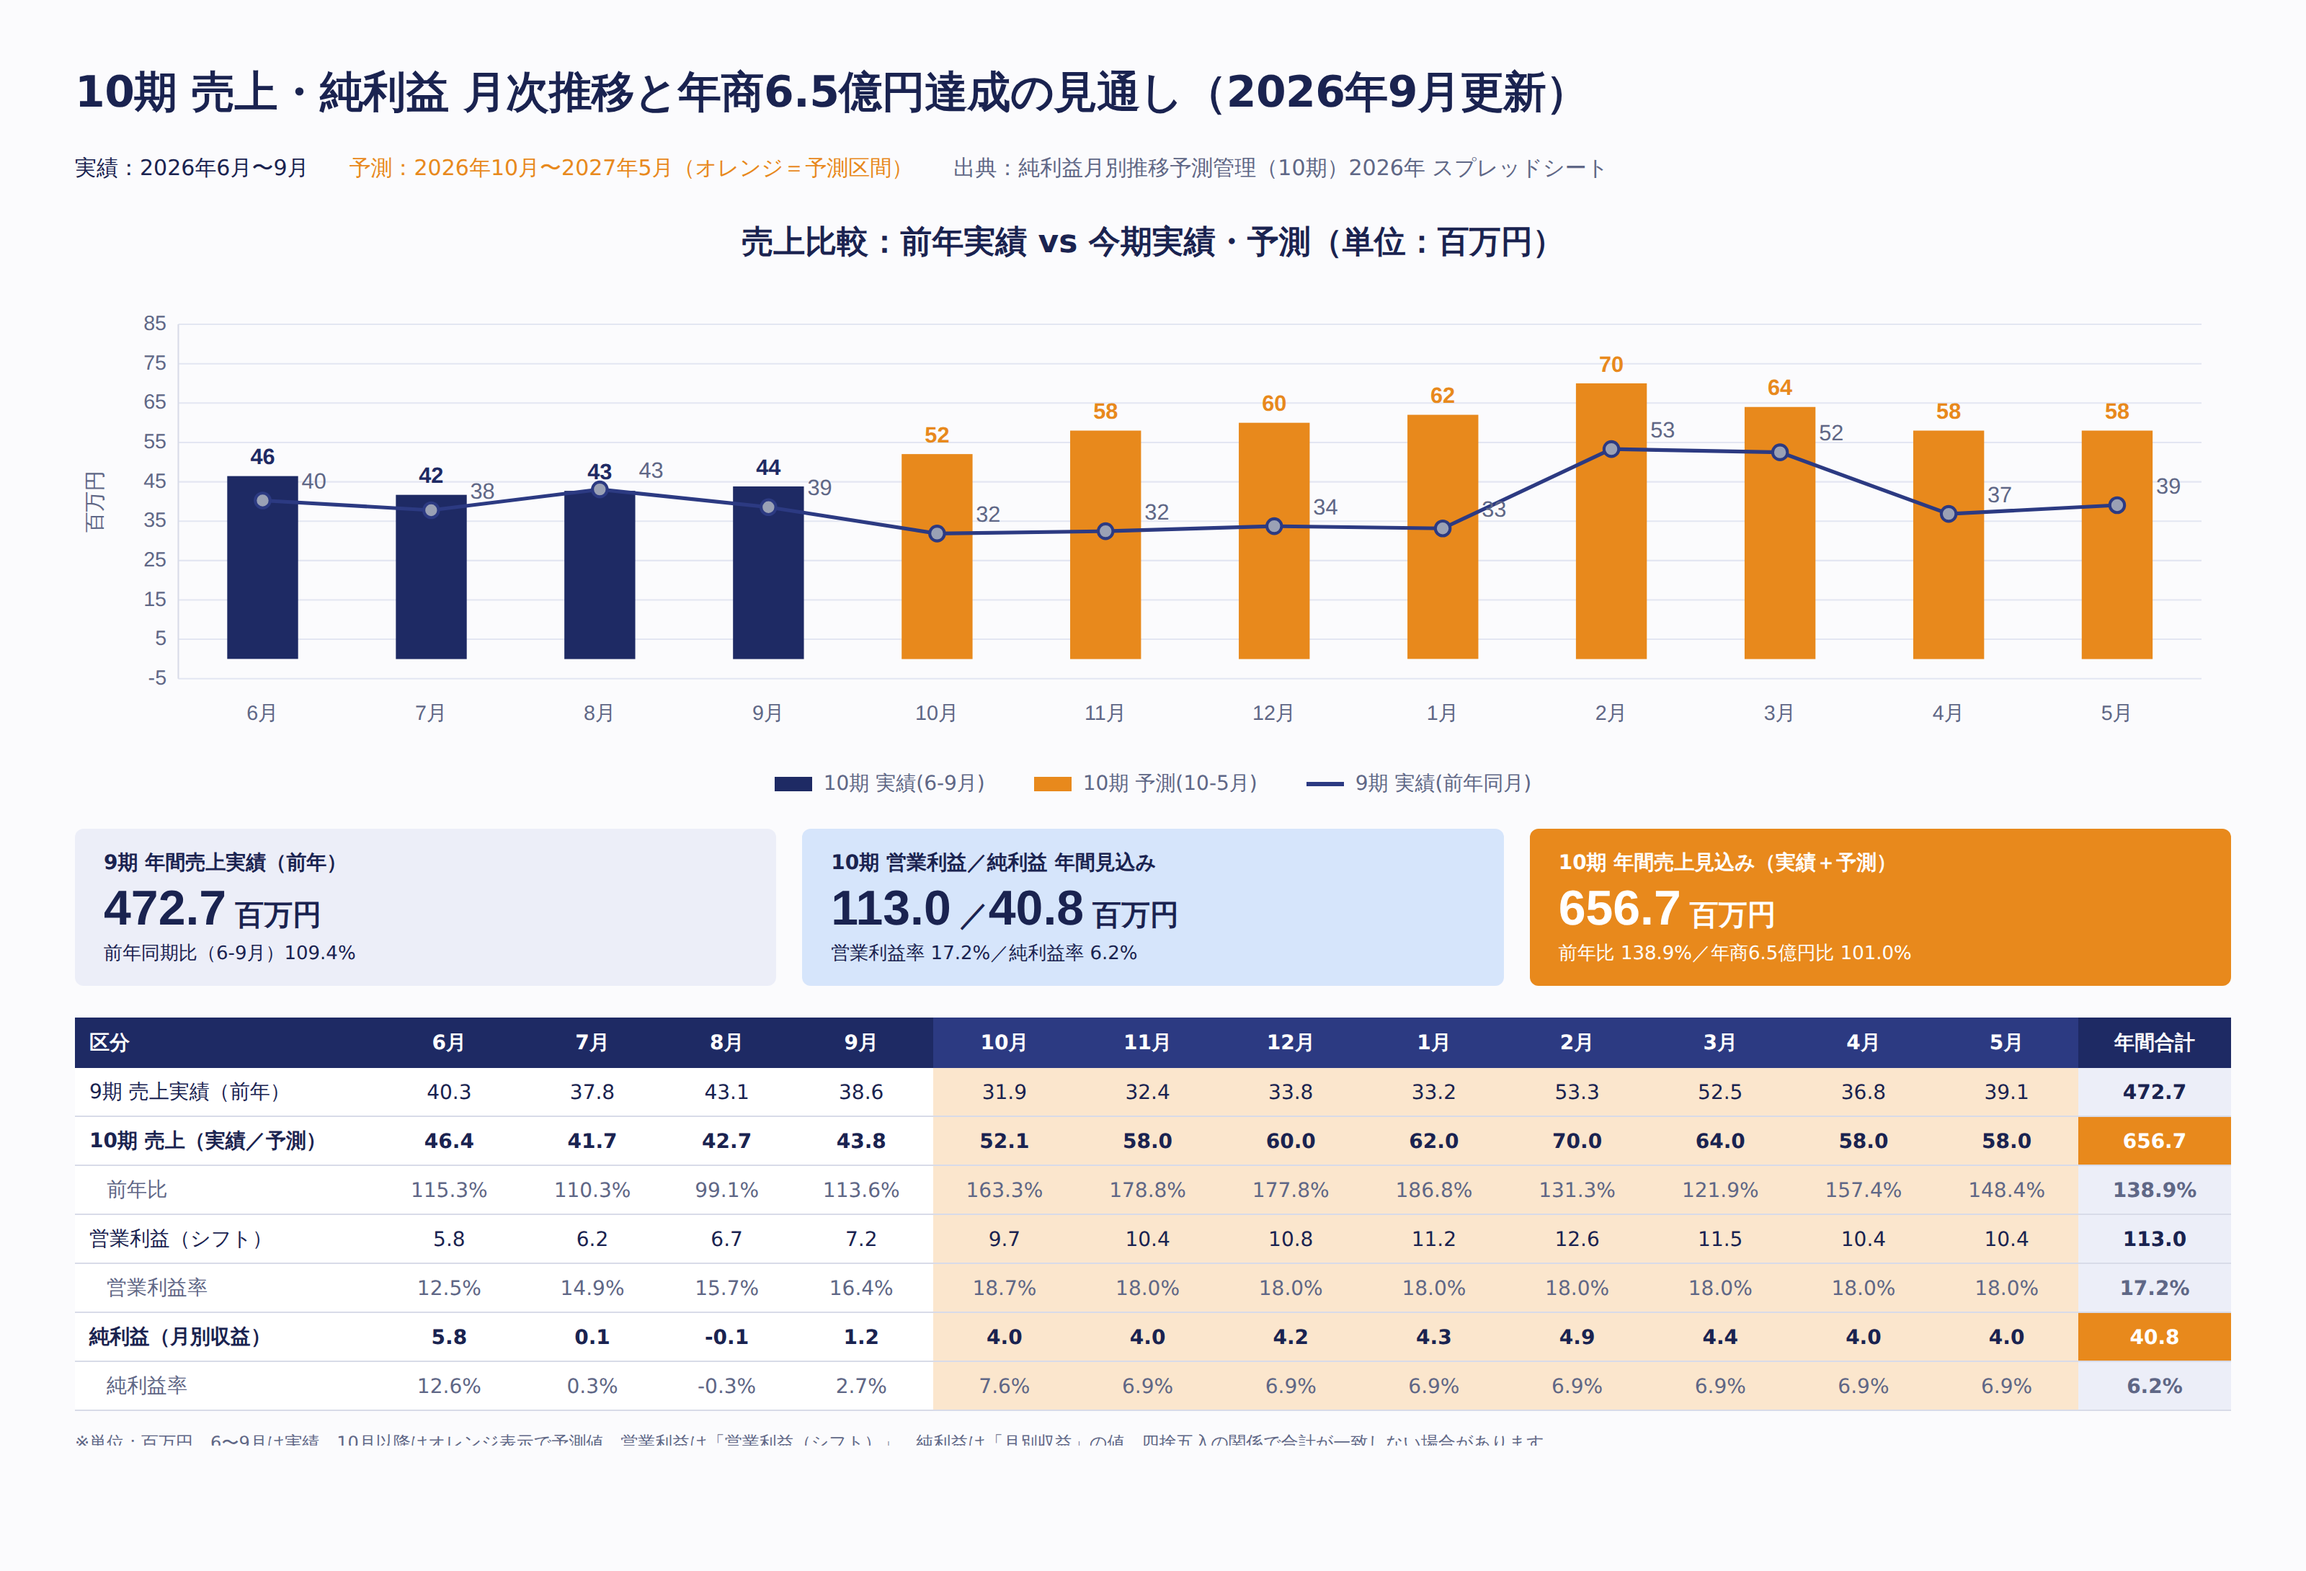
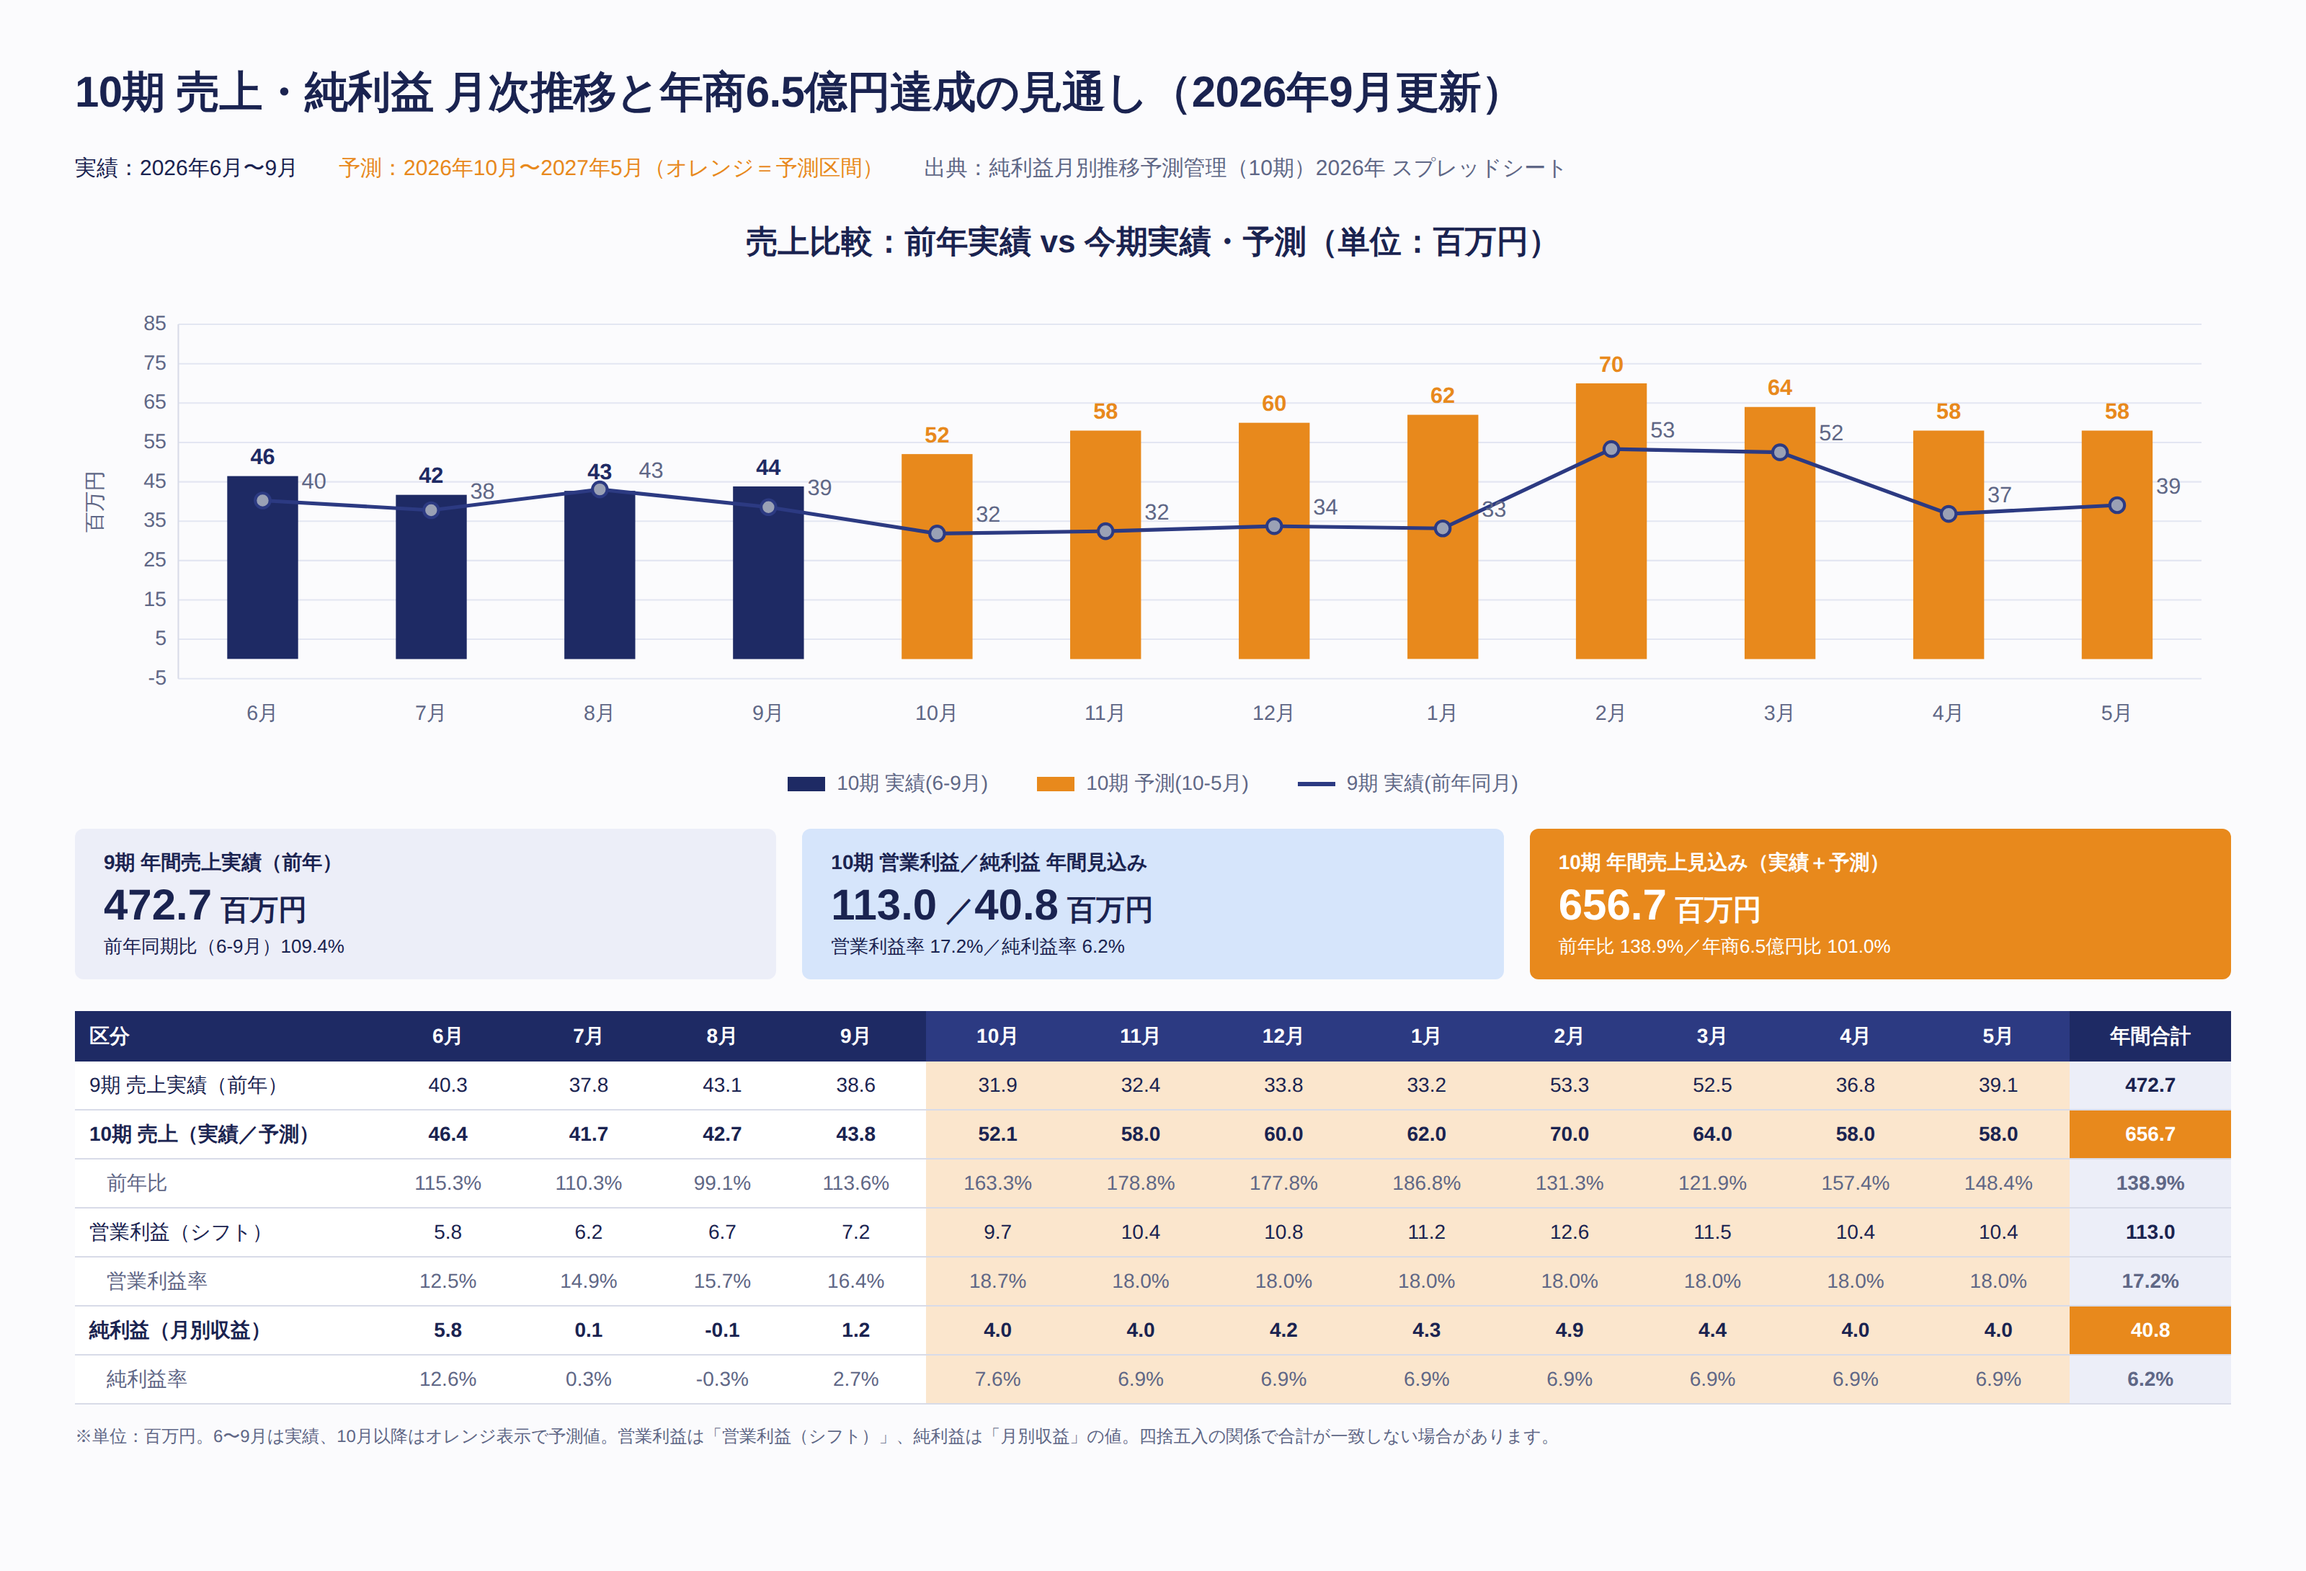
財務: ダッシュボードのフォントをメイリオに変更
Claude-Session: https://claude.ai/code/session_01Ffwsq9b3WREJREjWV2anFx

diff --git a/docs/finance/10ki-sales-net-profit-forecast.html b/docs/finance/10ki-sales-net-profit-forecast.html
@@ -1,10 +1,9 @@
 <title>10期 売上・純利益 月次推移</title>
-<link rel="stylesheet" href="https://fonts.googleapis.com/css2?family=Noto+Sans+JP:wght@400;500;700&family=Barlow+Semi+Condensed:wght@500;600;700&display=swap">
 <style>
 :root{--bg:#fbfbfd;--ink:#1a2350;--navy:#1e2a64;--navy2:#2c3a82;--navy-soft:#9aa6d6;--orange:#e8891c;--orange-soft:#fbe6cd;--muted:#5f6786;--grid:#e3e6f2;--panel:#eceef8;--panel-blue:#d6e5fb;--line:#d8dbe8;--white:#fff}
 @media (prefers-color-scheme:dark){:root:not([data-theme="light"]){--bg:#12162a;--ink:#e8ebfa;--navy:#8ea0ff;--navy2:#5f74e8;--navy-soft:#4d5aa0;--orange:#f39a33;--orange-soft:#4a3418;--muted:#a3abcc;--grid:#2a3050;--panel:#1c2140;--panel-blue:#1f2d4f;--line:#323a5c;--white:#1a1f3a}}
 :root[data-theme="dark"]{--bg:#12162a;--ink:#e8ebfa;--navy:#8ea0ff;--navy2:#5f74e8;--navy-soft:#4d5aa0;--orange:#f39a33;--orange-soft:#4a3418;--muted:#a3abcc;--grid:#2a3050;--panel:#1c2140;--panel-blue:#1f2d4f;--line:#323a5c;--white:#1a1f3a}
-body{background:var(--bg);color:var(--ink);font-family:"Noto Sans JP",system-ui,sans-serif;font-size:14px}
+body{background:var(--bg);color:var(--ink);font-family:Meiryo,"メイリオ","Yu Gothic","Hiragino Sans",Meiryo,"メイリオ","Yu Gothic","Hiragino Sans","Noto Sans JP",sans-serif;font-size:14px}
 .page{max-width:1600px;margin:0 auto;padding:36px 44px 28px;display:grid;gap:22px}
 h1{font-size:30px;font-weight:700;margin:0;letter-spacing:-.01em;text-wrap:balance}
 .meta{display:flex;flex-wrap:wrap;gap:8px 28px;font-size:15px;font-weight:500}
@@ -12,9 +11,9 @@ h1{font-size:30px;font-weight:700;margin:0;letter-spacing:-.01em;text-wrap:balan
 h2{text-align:center;font-size:22px;margin:4px 0 0}
 svg{display:block;overflow:visible}
 .grid{stroke:var(--grid);stroke-width:1}.axis{stroke:var(--line)}
-.tick{font:14px "Noto Sans JP",sans-serif;fill:var(--muted)}
+.tick{font:14px Meiryo,"メイリオ","Yu Gothic","Hiragino Sans","Noto Sans JP",sans-serif;fill:var(--muted)}
 .bar.act{fill:var(--navy)}.bar.fc{fill:var(--orange)}
-.lbl{font:600 15px "Barlow Semi Condensed",sans-serif}.lbl.act{fill:var(--navy)}.lbl.fc{fill:var(--orange)}.lbl.prev{fill:var(--muted);font-weight:500}
+.lbl{font:600 15px Meiryo,"メイリオ","Yu Gothic","Hiragino Sans","Noto Sans JP",sans-serif}.lbl.act{fill:var(--navy)}.lbl.fc{fill:var(--orange)}.lbl.prev{fill:var(--muted);font-weight:500}
 .line{fill:none;stroke:var(--navy2);stroke-width:2.5}.dot{fill:#9aa1b5;stroke:var(--navy2);stroke-width:2}
 .legend{display:flex;justify-content:center;gap:34px;font-size:14px;color:var(--muted)}
 .legend span::before{content:"";display:inline-block;width:26px;height:10px;margin-right:8px;vertical-align:middle;background:var(--sw)}
@@ -23,8 +22,8 @@ svg{display:block;overflow:visible}
 .card{padding:14px 20px;border-radius:6px;background:var(--panel);color:var(--ink)}
 .card.blue{background:var(--panel-blue)}.card.hot{background:var(--orange);color:#fff}
 .card small{display:block;font-size:14px;font-weight:700}
-.card b{display:block;font:700 34px/1.2 "Barlow Semi Condensed",sans-serif;margin:2px 0}
-.card b em{font:700 20px "Noto Sans JP",sans-serif;font-style:normal;margin-left:6px}
+.card b{display:block;font:700 30px/1.2 Meiryo,"メイリオ","Yu Gothic","Hiragino Sans","Noto Sans JP",sans-serif;margin:2px 0}
+.card b em{font:700 20px Meiryo,"メイリオ","Yu Gothic","Hiragino Sans","Noto Sans JP",sans-serif;font-style:normal;margin-left:6px}
 .card .sub{font-size:13px}
 .tblwrap{overflow-x:auto}
 table{width:100%;border-collapse:collapse;font-variant-numeric:tabular-nums;font-size:14px;white-space:nowrap}
